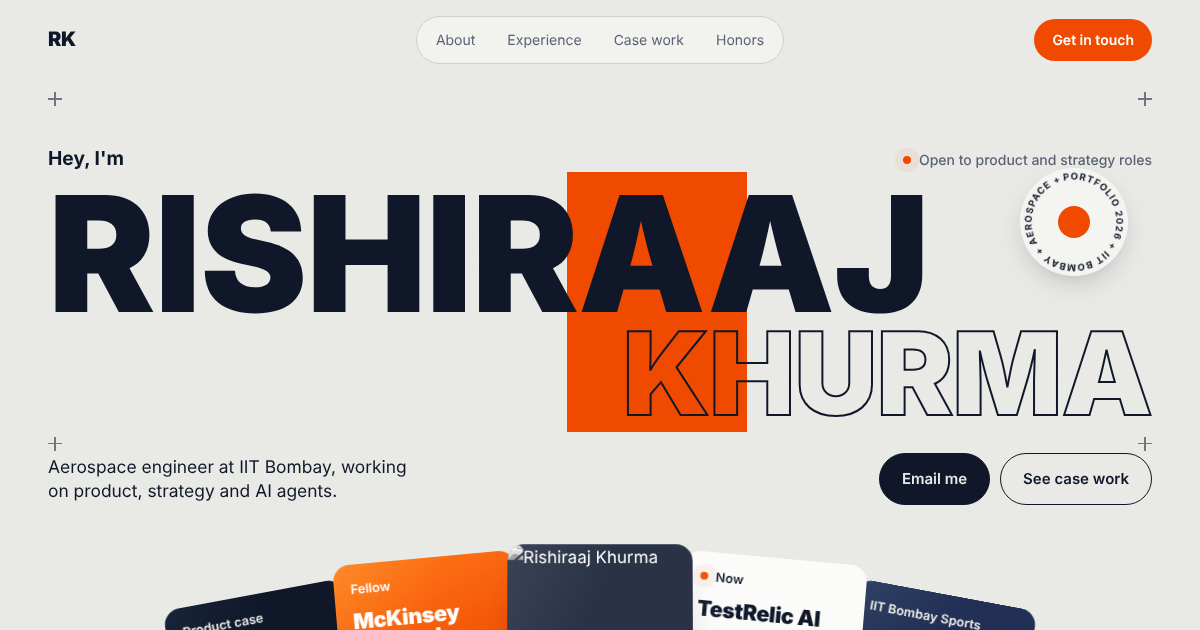
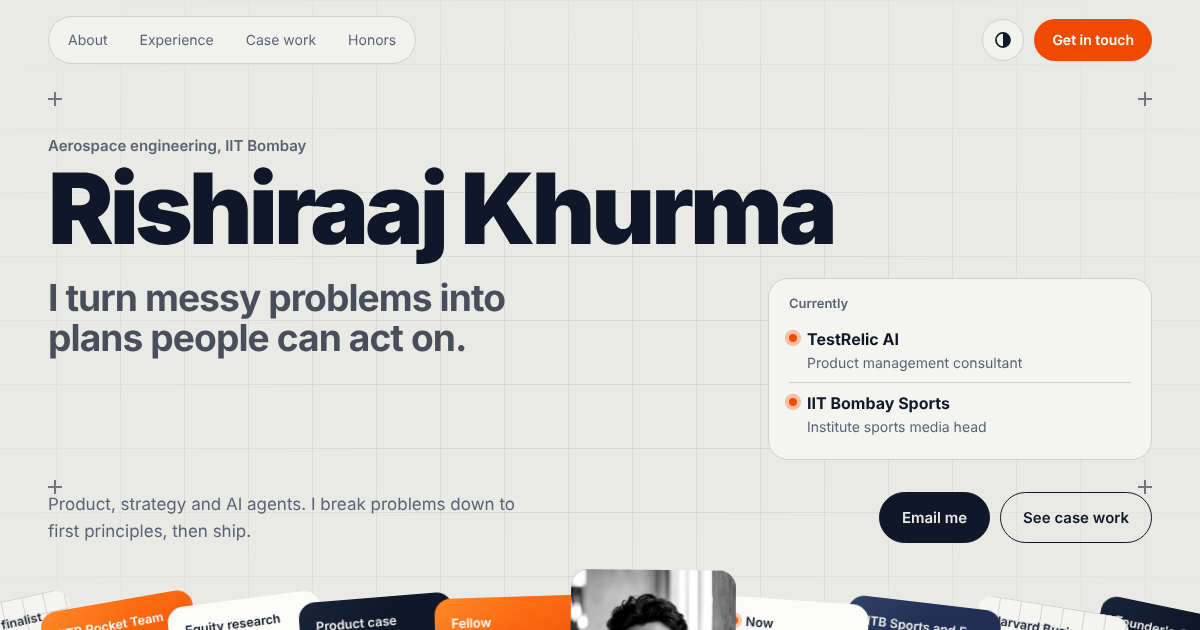
Hero: name-led statement layout
Name is the main heading with the statement beneath it, a Currently panel
(TestRelic AI, IIT Bombay Sports), and no second photo in the hero.

Claude-Session: https://claude.ai/code/session_01NUnVZi5Pjvxnp9LNC7V59v

diff --git a/assets/styles.css b/assets/styles.css
@@ -194,66 +194,47 @@ ul { padding: 0; list-style: none; }
 .mark--ml { top: 56%; left: var(--gutter); }
 .mark--mr { top: 56%; right: var(--gutter); }
 
-.hero__top {
-  display: flex; justify-content: space-between; align-items: baseline; gap: 16px;
-  padding-top: clamp(28px, 4vw, 48px);
-}
-.hero__hey {
-  font-size: clamp(1.05rem, 1.6vw, 1.35rem);
-  font-weight: 700; font-variation-settings: "wdth" 120;
-}
-.hero__status { font-size: 14px; color: var(--muted); font-weight: 500; text-align: right; }
-
-.hero__title { position: relative; margin-top: clamp(4px, 1vw, 12px); }
-.hero__block {
-  position: absolute; z-index: -1;
-  left: 47%; width: clamp(110px, 15vw, 210px);
-  top: -6%; bottom: -4%;
-  background: var(--orange);
-  transform-origin: 50% 100%;
-}
-.hero__name {
+.intro { position: relative; z-index: 2; padding-top: clamp(24px, 3.2vw, 44px); }
+.intro__eyebrow { font-size: 15px; font-weight: 600; color: var(--muted); }
+.intro__name {
+  margin-top: 6px;
+  font-size: clamp(3rem, 8.2vw, 7.4rem);
   font-weight: 900;
-  text-transform: uppercase;
-  line-height: .84;
-  letter-spacing: -0.03em;
-  font-variation-settings: "wdth" 125;
+  line-height: .92;
+  letter-spacing: -0.04em;
+  font-variation-settings: "wdth" 116;
 }
-.hero__first {
-  display: block;
-  font-size: min(calc((100vw - 2 * var(--gutter)) / 7.45), 172px);
-  color: var(--ink);
+.intro__grid {
+  display: grid; grid-template-columns: minmax(0, 7fr) minmax(0, 4fr);
+  gap: clamp(24px, 4vw, 64px); align-items: start;
+  margin-top: clamp(16px, 2vw, 26px);
 }
-.hero__last {
-  display: block;
-  font-size: min(9.6vw, 132px);
-  color: transparent;
-  -webkit-text-stroke: 2px var(--ink);
-  text-align: right;
-  margin-top: .04em;
+.intro__statement {
+  font-size: clamp(1.6rem, 3.1vw, 2.75rem);
+  font-weight: 700; line-height: 1.08; letter-spacing: -0.025em;
+  font-variation-settings: "wdth" 108;
+  color: color-mix(in srgb, var(--ink) 74%, var(--paper));
+  max-width: 22ch;
 }
-
-/* load sequence: bar rises, name throttles open, outline slides in */
-.js .hero__block { transform: scaleY(0); animation: rise 1s var(--ease) .1s forwards; }
-.js .hero__first { font-variation-settings: "wdth" 62; opacity: 0; animation: throttle 1.25s var(--ease) .35s forwards; }
-.js .hero__last { opacity: 0; transform: translateX(6%); font-variation-settings: "wdth" 62; animation: slideIn 1.25s var(--ease) .55s forwards; }
-.js .hero__hey, .js .hero__status, .js .hero__row { opacity: 0; animation: fade .9s var(--ease) 1s forwards; }
-@keyframes rise { to { transform: scaleY(1); } }
-@keyframes throttle { 0% { font-variation-settings: "wdth" 62; opacity: 0; } 25% { opacity: 1; } 100% { font-variation-settings: "wdth" 125; opacity: 1; } }
-@keyframes slideIn { 0% { opacity: 0; transform: translateX(6%); font-variation-settings: "wdth" 62; } 30% { opacity: 1; } 100% { opacity: 1; transform: none; font-variation-settings: "wdth" 125; } }
-@keyframes fade { from { opacity: 0; transform: translateY(8px); } to { opacity: 1; transform: none; } }
-
-.hero__row {
-  display: flex; justify-content: space-between; align-items: center; gap: 20px 32px; flex-wrap: wrap;
-  margin-top: clamp(22px, 2.6vw, 36px);
-  position: relative; z-index: 2;
-}
-.hero__lede {
-  font-size: clamp(1.05rem, 1.45vw, 1.3rem);
-  line-height: 1.4;
-  max-width: 34ch;
-}
+.now { background: var(--paper-2); border: 1px solid var(--rule); border-radius: 20px; padding: 14px 20px; }
+.now__title { font-size: 13px; font-weight: 600; color: var(--muted); margin-bottom: 6px; }
+.now li { display: grid; grid-template-columns: auto 1fr; column-gap: 2px; padding: 8px 0; border-top: 1px solid var(--rule); }
+.now li:first-child { border-top: 0; }
+.now .dot { grid-row: span 2; margin-top: 7px; }
+.now b { font-size: 16px; }
+.now em { font-style: normal; font-size: 14px; color: var(--muted); }
+.intro__foot { display: flex; justify-content: space-between; align-items: center; gap: 18px 24px; flex-wrap: wrap; margin-top: clamp(20px, 2.6vw, 32px); }
+.intro__lede { color: var(--muted); font-size: 17px; max-width: 46ch; }
 .hero__actions { display: flex; gap: 10px; flex-wrap: wrap; }
+
+/* load sequence: the name opens from condensed to full width, the rest follows */
+.js .intro__name { opacity: 0; font-variation-settings: "wdth" 62; animation: throttle 1.2s var(--ease) .15s forwards; }
+.js .intro__eyebrow, .js .intro__grid, .js .intro__foot { opacity: 0; animation: fade .9s var(--ease) forwards; }
+.js .intro__eyebrow { animation-delay: .1s; }
+.js .intro__grid { animation-delay: .55s; }
+.js .intro__foot { animation-delay: .75s; }
+@keyframes throttle { 0% { font-variation-settings: "wdth" 62; opacity: 0; } 25% { opacity: 1; } 100% { font-variation-settings: "wdth" 116; opacity: 1; } }
+@keyframes fade { from { opacity: 0; transform: translateY(8px); } to { opacity: 1; transform: none; } }
 
 /* ================= 3D card deck ================= */
 .deck {
@@ -383,16 +364,10 @@ ul { padding: 0; list-style: none; }
   .deck { --cw: 164px; --step: 4deg; --gap: .8; --drop: 0px; }
   .card__foot { font-size: 11.5px; }
   .card__kick { font-size: 12px; }
-  .hero__row { position: static; width: auto; margin-top: 22px; }
-  .hero__last { color: var(--orange); -webkit-text-stroke: 0; margin-top: .1em; }
-  .hero__block { display: none; }
   .hero { min-height: 0; padding-bottom: 0; }
   .deck { flex: none; height: calc(var(--ch) + 96px); margin-top: 40px; }
-  .hero__top { flex-direction: column; align-items: flex-start; gap: 6px; }
-  .hero__status { text-align: left; }
-  .hero__first { font-size: calc((100vw - 2 * var(--gutter)) / 7.45); }
-  .hero__last { font-size: 12.2vw; }
-  .hero__block { left: 44%; width: 28vw; }
+  .intro__grid { grid-template-columns: 1fr; }
+  .intro__name { font-size: clamp(2.6rem, 13vw, 4rem); }
   .mark--ml, .mark--mr { display: none; }
 }
 

diff --git a/index.html b/index.html
@@ -64,26 +64,27 @@
       <span class="mark mark--ml" aria-hidden="true"></span>
       <span class="mark mark--mr" aria-hidden="true"></span>
 
-      <div class="hero__top">
-        <p class="hero__hey">Hey, I'm</p>
-      </div>
-
-      <div class="hero__title">
-        <span class="hero__block" aria-hidden="true"></span>
-        <h1 class="hero__name" id="hero-name">
-          <span class="hero__first">Rishiraaj</span>
-          <span class="hero__last">Khurma</span>
-        </h1>
-      </div>
-
-      <div class="hero__row">
-        <p class="hero__lede">Aerospace engineer at IIT Bombay, working on product, strategy and AI agents.</p>
-        <div class="hero__actions">
-          <a class="btn btn--solid" href="mailto:rishiraajkhurma@gmail.com">Email me</a>
-          <a class="btn" href="#cases">See case work</a>
+      <div class="intro">
+        <p class="intro__eyebrow">Aerospace engineering, IIT Bombay</p>
+        <h1 class="intro__name" id="hero-name">Rishiraaj Khurma</h1>
+        <div class="intro__grid">
+          <p class="intro__statement">I turn messy problems into plans people can act on.</p>
+          <aside class="now" aria-label="Currently">
+            <p class="now__title">Currently</p>
+            <ul>
+              <li><span class="dot" aria-hidden="true"></span><b>TestRelic AI</b><em>Product management consultant</em></li>
+              <li><span class="dot" aria-hidden="true"></span><b>IIT Bombay Sports</b><em>Institute sports media head</em></li>
+            </ul>
+          </aside>
+        </div>
+        <div class="intro__foot">
+          <p class="intro__lede">Product, strategy and AI agents. I break problems down to first principles, then ship.</p>
+          <div class="hero__actions">
+            <a class="btn btn--solid" href="mailto:rishiraajkhurma@gmail.com">Email me</a>
+            <a class="btn" href="#cases">See case work</a>
+          </div>
         </div>
       </div>
-
 
       <!-- 3D card deck -->
       <div class="deck" aria-label="Highlights">
